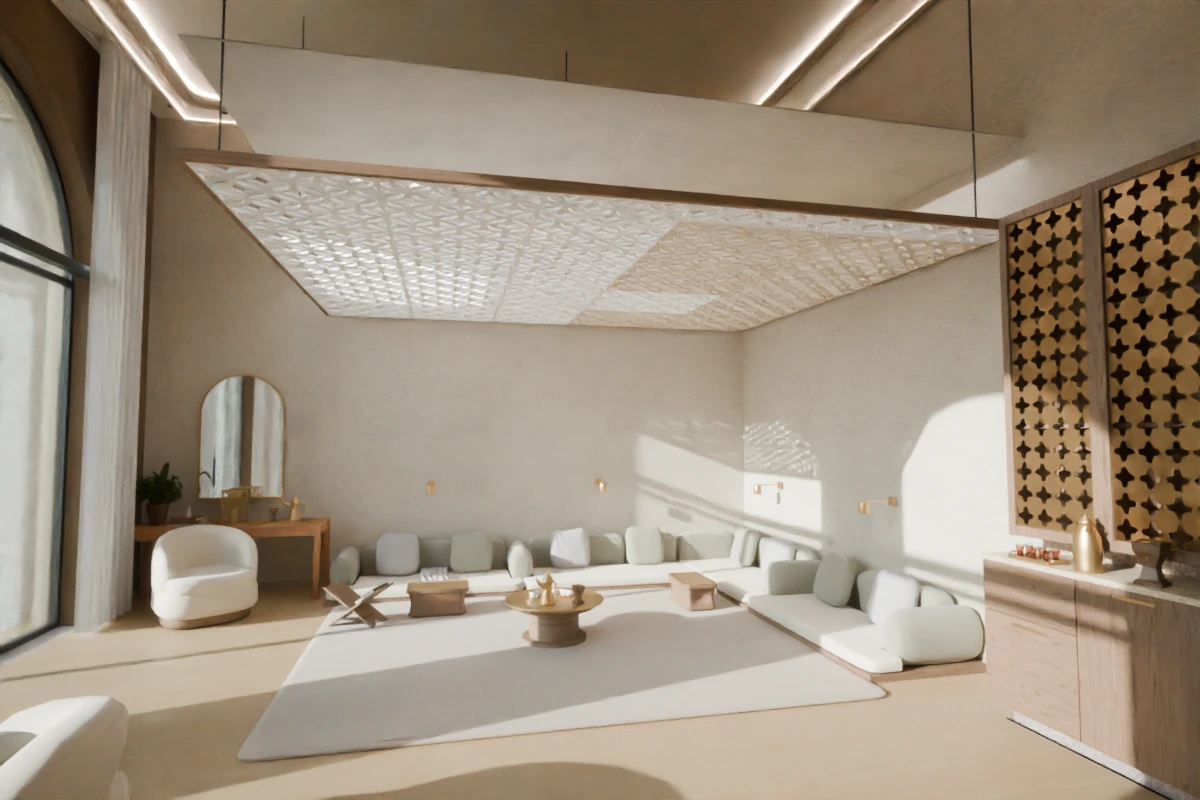
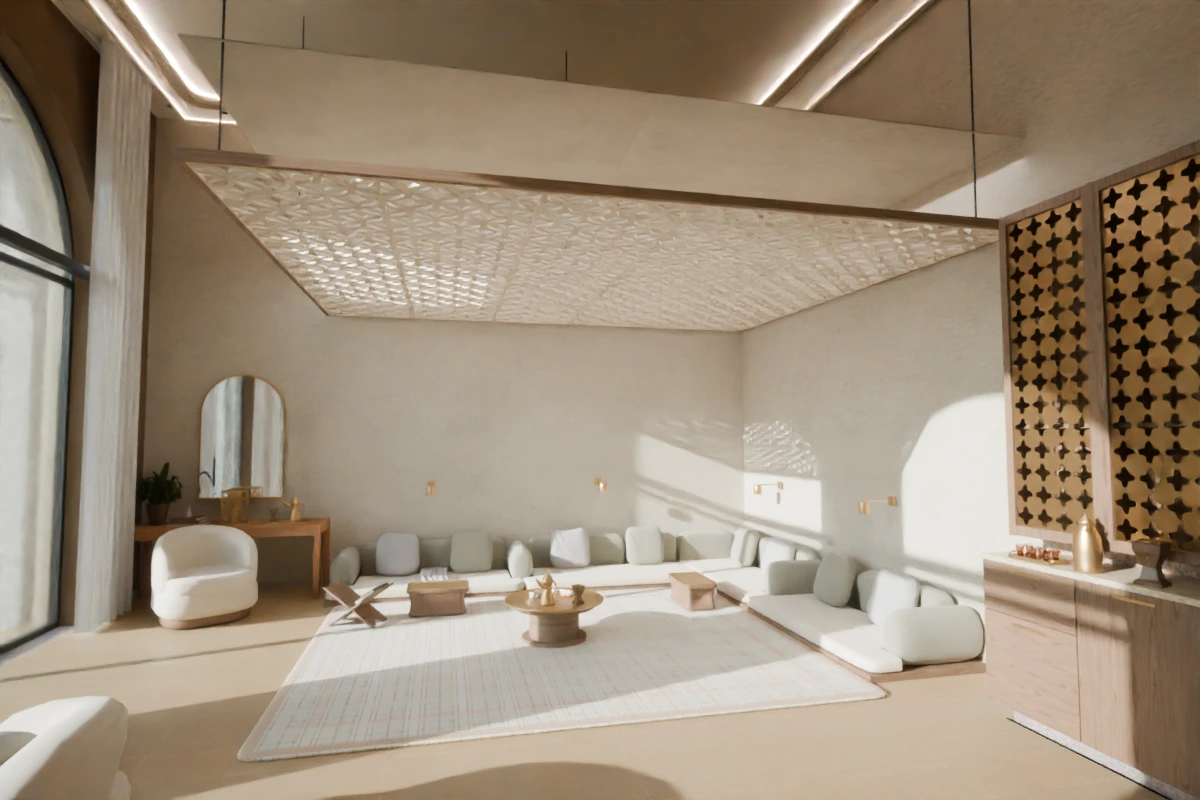
Show restored woven Majlis rug and verified Cycles display

diff --git a/view/alrashid-compare/index.html b/view/alrashid-compare/index.html
@@ -10,12 +10,11 @@
 <body><main>
 <header><img class="brand" src="/assets/logo-ink.svg" alt="سمت"><span>منزل الراشد</span></header>
 <nav aria-label="زوايا المنزل"><a href="/view/alrashid-compare/" aria-current="page">البوفيه والثريا</a><a href="/view/alrashid-compare/majlis/">الجلسة العربية</a></nav>
-
 <h1>البوفيه والثريا</h1>
 <figure>
 <div class="frame" id="comparison">
 <img id="unreal" src="buffet-unreal-r13-1440.webp" srcset="buffet-unreal-r13-720.webp 720w, buffet-unreal-r13-1440.webp 1440w, buffet-unreal-r13-2160.webp 2160w" sizes="(max-width: 1180px) 100vw, 1180px" width="1440" height="960" decoding="async" alt="البوفيه والثريا، بعد · Unreal Engine">
-<div class="reference image-layer"><img id="blender" src="buffet-blender-r13-1440.webp" srcset="buffet-blender-r13-720.webp 720w, buffet-blender-r13-1440.webp 1440w, buffet-blender-r13-2160.webp 2160w" sizes="(max-width: 1180px) 100vw, 1180px" width="1440" height="960" decoding="async" alt="البوفيه والثريا، قبل · Blender Cycles"></div>
+<div class="reference image-layer"><img id="blender" src="buffet-blender-r13-agx-1440.webp" srcset="buffet-blender-r13-agx-720.webp 720w, buffet-blender-r13-agx-1440.webp 1440w, buffet-blender-r13-agx-2160.webp 2160w" sizes="(max-width: 1180px) 100vw, 1180px" width="1440" height="960" decoding="async" alt="البوفيه والثريا، قبل · Blender Cycles"></div>
 <span class="tag tag-a" aria-hidden="true">قبل · <bdi>Blender</bdi></span>
 <span class="tag tag-b" aria-hidden="true">بعد · <bdi>Unreal Engine</bdi></span>
 <i class="seam" aria-hidden="true"></i>
@@ -23,6 +22,6 @@
 </div>
 <figcaption><span id="help">اسحب الفاصل لمقارنة اللقطتين.</span><span>نهار</span></figcaption>
 </figure>
-<div class="originals"><a href="buffet-blender-r13-full.jpg">فتح صورة <bdi>Blender</bdi><small dir="ltr">3000 × 2000</small></a><a href="/view/alrashid-buffet-day.jpg">فتح صورة <bdi>Unreal Engine</bdi><small dir="ltr">7680 × 5120</small></a></div>
+<div class="originals"><a href="buffet-blender-r13-agx-full.jpg">فتح صورة <bdi>Blender</bdi><small dir="ltr">3000 × 2000</small></a><a href="/view/alrashid-buffet-day.jpg">فتح صورة <bdi>Unreal Engine</bdi><small dir="ltr">7680 × 5120</small></a></div>
 <p class="note">اللقطتان من المراجعة 13، بنفس موضع الكاميرا والعدسة. <a class="archived" href="buffet-blender-r12-full.jpg">فتح رندر Blender السابق من المراجعة 12</a></p>
 </main></body></html>

diff --git a/view/alrashid-compare/majlis/index.html b/view/alrashid-compare/majlis/index.html
@@ -13,7 +13,7 @@
 <h1>الجلسة العربية</h1>
 <figure>
 <div class="frame" id="comparison">
-<img id="unreal" src="../majlis-unreal-r13-preview-1200.webp" srcset="../majlis-unreal-r13-preview-720.webp 720w, ../majlis-unreal-r13-preview-1200.webp 1200w" sizes="(max-width: 1180px) 100vw, 1180px" width="1440" height="960" decoding="async" alt="الجلسة العربية، بعد · Unreal Engine">
+<img id="unreal" src="../majlis-unreal-r13-woven-preview-1200.webp" srcset="../majlis-unreal-r13-woven-preview-720.webp 720w, ../majlis-unreal-r13-woven-preview-1200.webp 1200w" sizes="(max-width: 1180px) 100vw, 1180px" width="1440" height="960" decoding="async" alt="الجلسة العربية، بعد · Unreal Engine">
 <div class="reference image-layer"><img id="blender" src="../majlis-blender-r13-1440.webp" srcset="../majlis-blender-r13-720.webp 720w, ../majlis-blender-r13-1440.webp 1440w" sizes="(max-width: 1180px) 100vw, 1180px" width="1440" height="960" decoding="async" alt="الجلسة العربية، قبل · Blender Cycles"></div>
 <span class="tag tag-a" aria-hidden="true">قبل · <bdi>Blender</bdi></span>
 <span class="tag tag-b" aria-hidden="true">بعد · <bdi>Unreal Engine</bdi></span>
@@ -22,6 +22,6 @@
 </div>
 <figcaption><span id="help">اسحب الفاصل لمقارنة اللقطتين.</span><span>نهار</span></figcaption>
 </figure>
-<div class="originals"><a href="../majlis-blender-r13-full.jpg">فتح صورة <bdi>Blender</bdi><small dir="ltr">1440 × 960</small></a><a href="../majlis-unreal-r13-preview-full.jpg">فتح صورة <bdi>Unreal Engine</bdi><small dir="ltr">1200 × 800</small></a></div>
-<p class="note">معاينة Unreal الأولية بدقة 1200 × 800، قبل اكتمال تفاصيل السجادة والمشربية. اللقطتان من المراجعة 13، بنفس موضع الكاميرا والعدسة. </p>
+<div class="originals"><a href="../majlis-blender-r13-full.jpg">فتح صورة <bdi>Blender</bdi><small dir="ltr">1440 × 960</small></a><a href="../majlis-unreal-r13-woven-preview-full.jpg">فتح صورة <bdi>Unreal Engine</bdi><small dir="ltr">1200 × 800</small></a></div>
+<p class="note">معاينة Unreal بدقة 1200 × 800 بعد ضبط نسيج السجادة وخامة المشربية. اللقطتان من المراجعة 13، بنفس موضع الكاميرا والعدسة. </p>
 </main></body></html>
